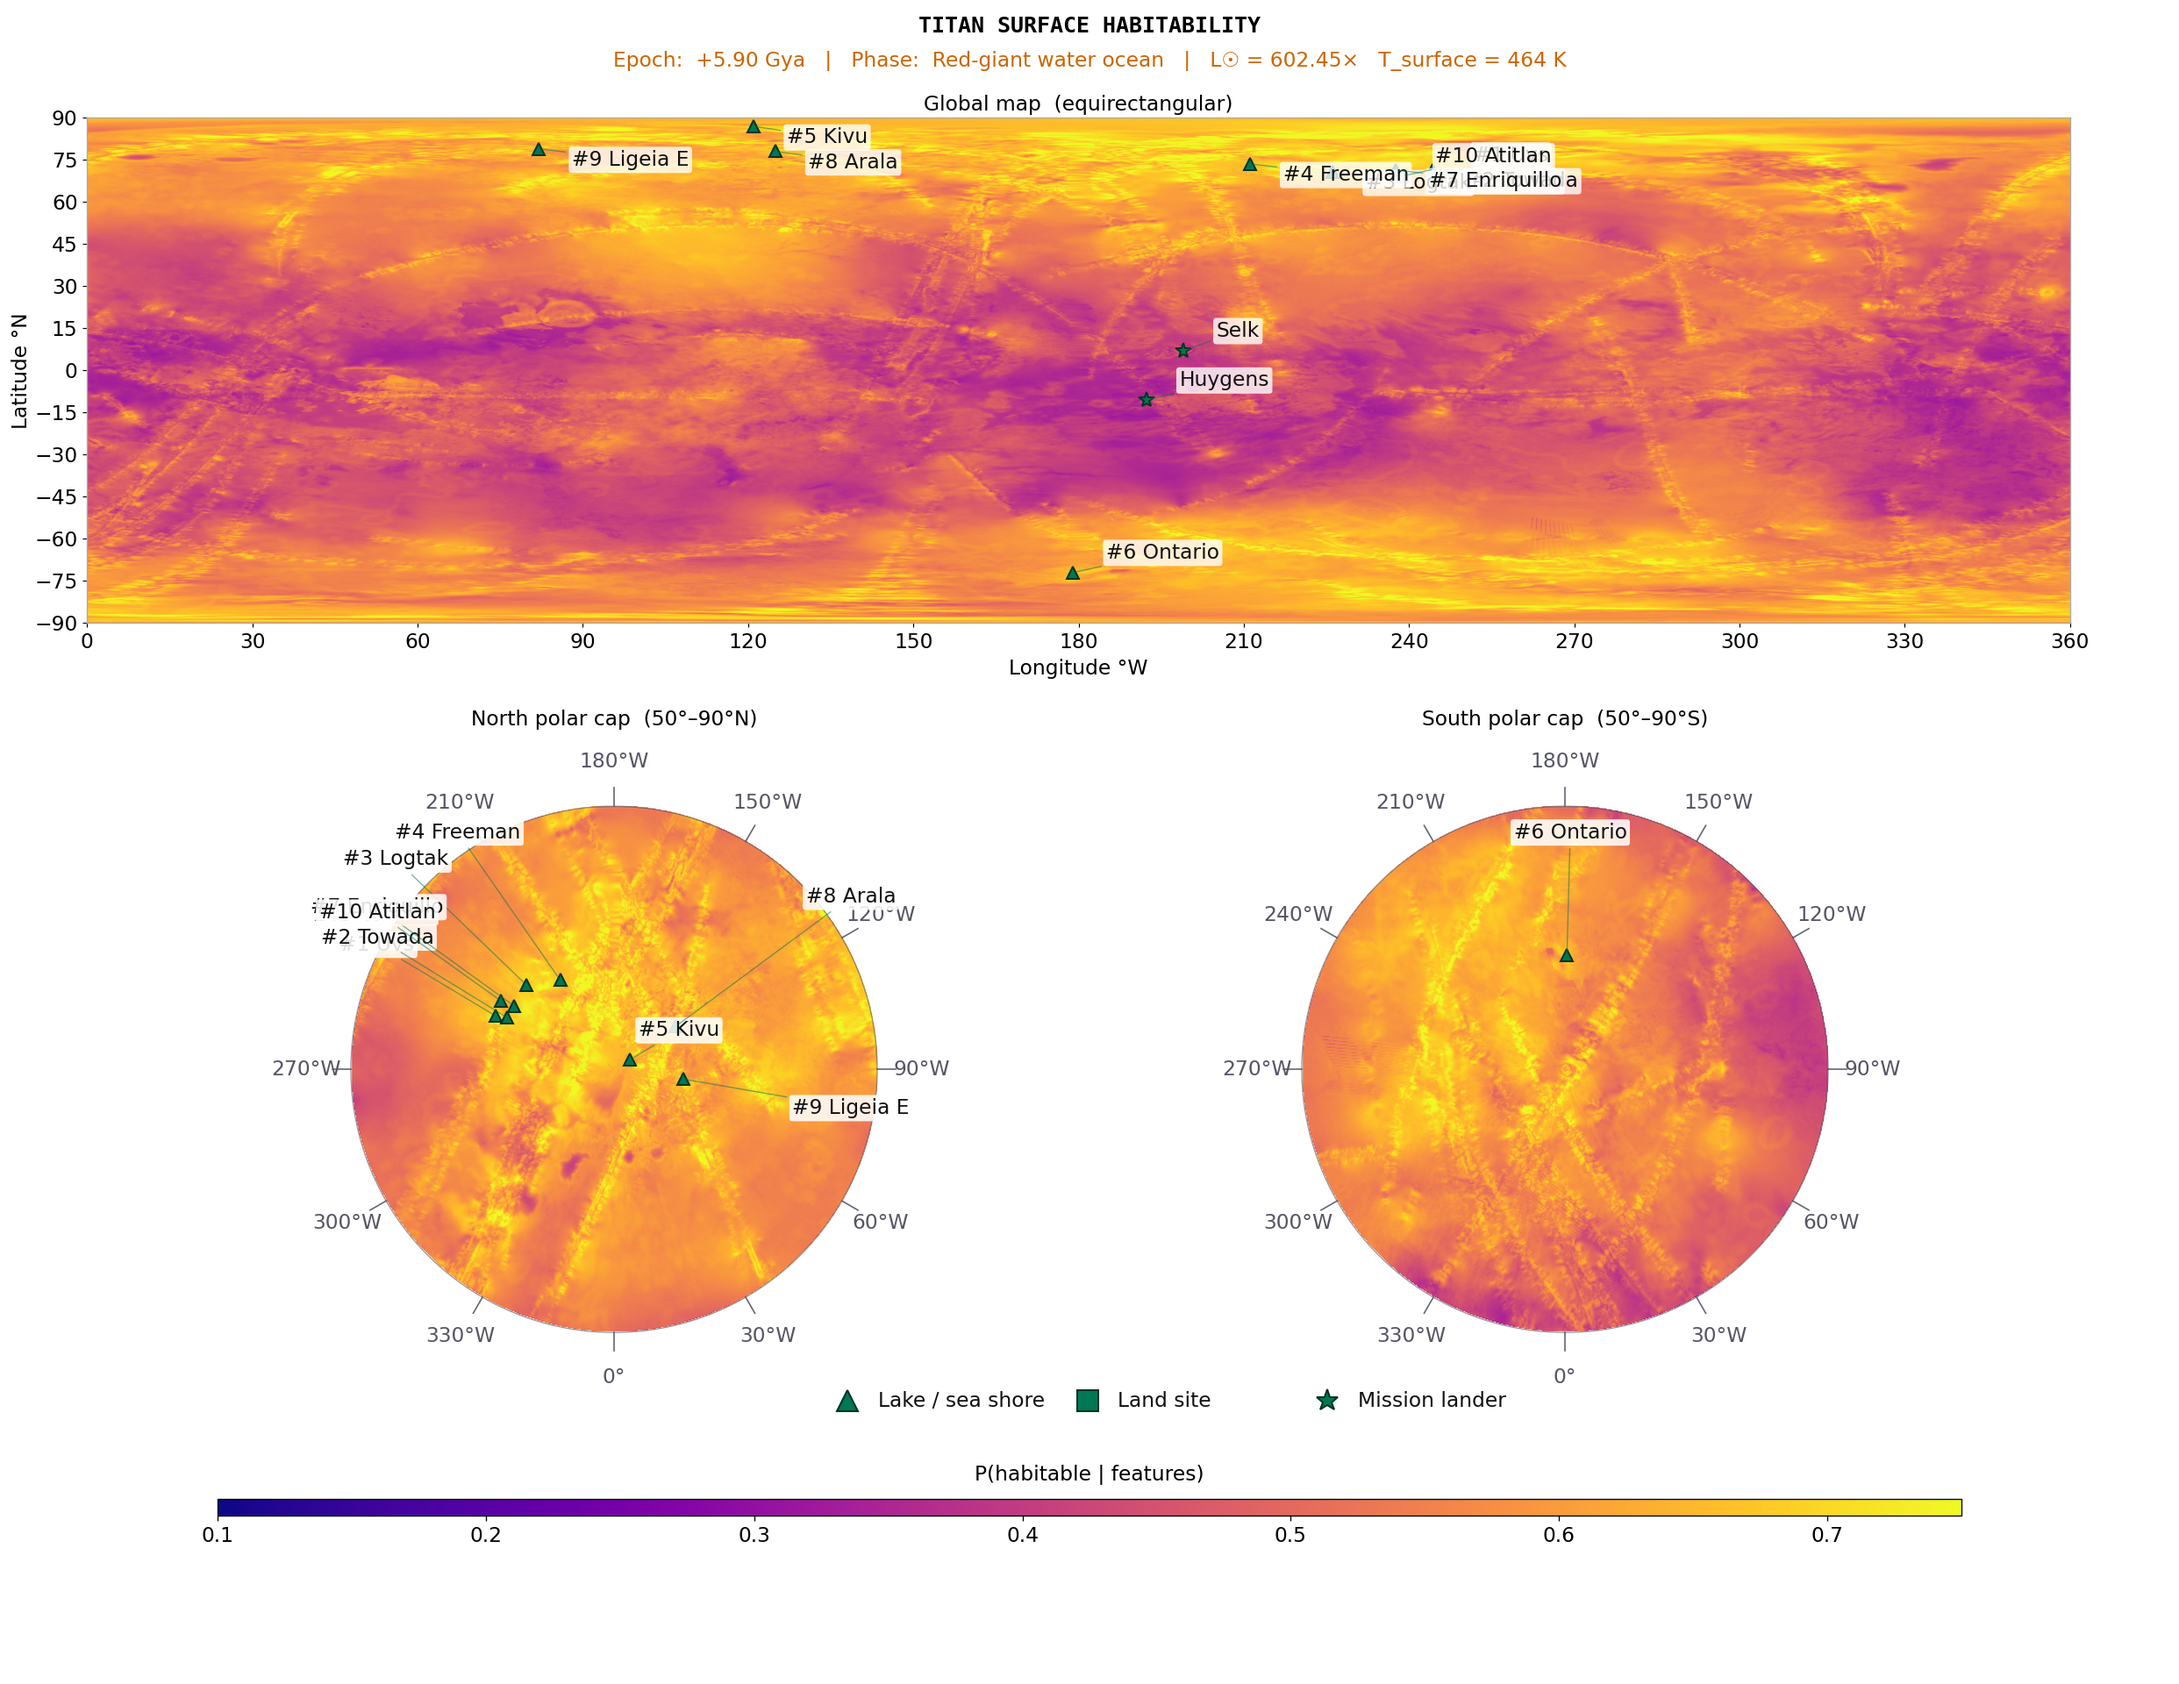
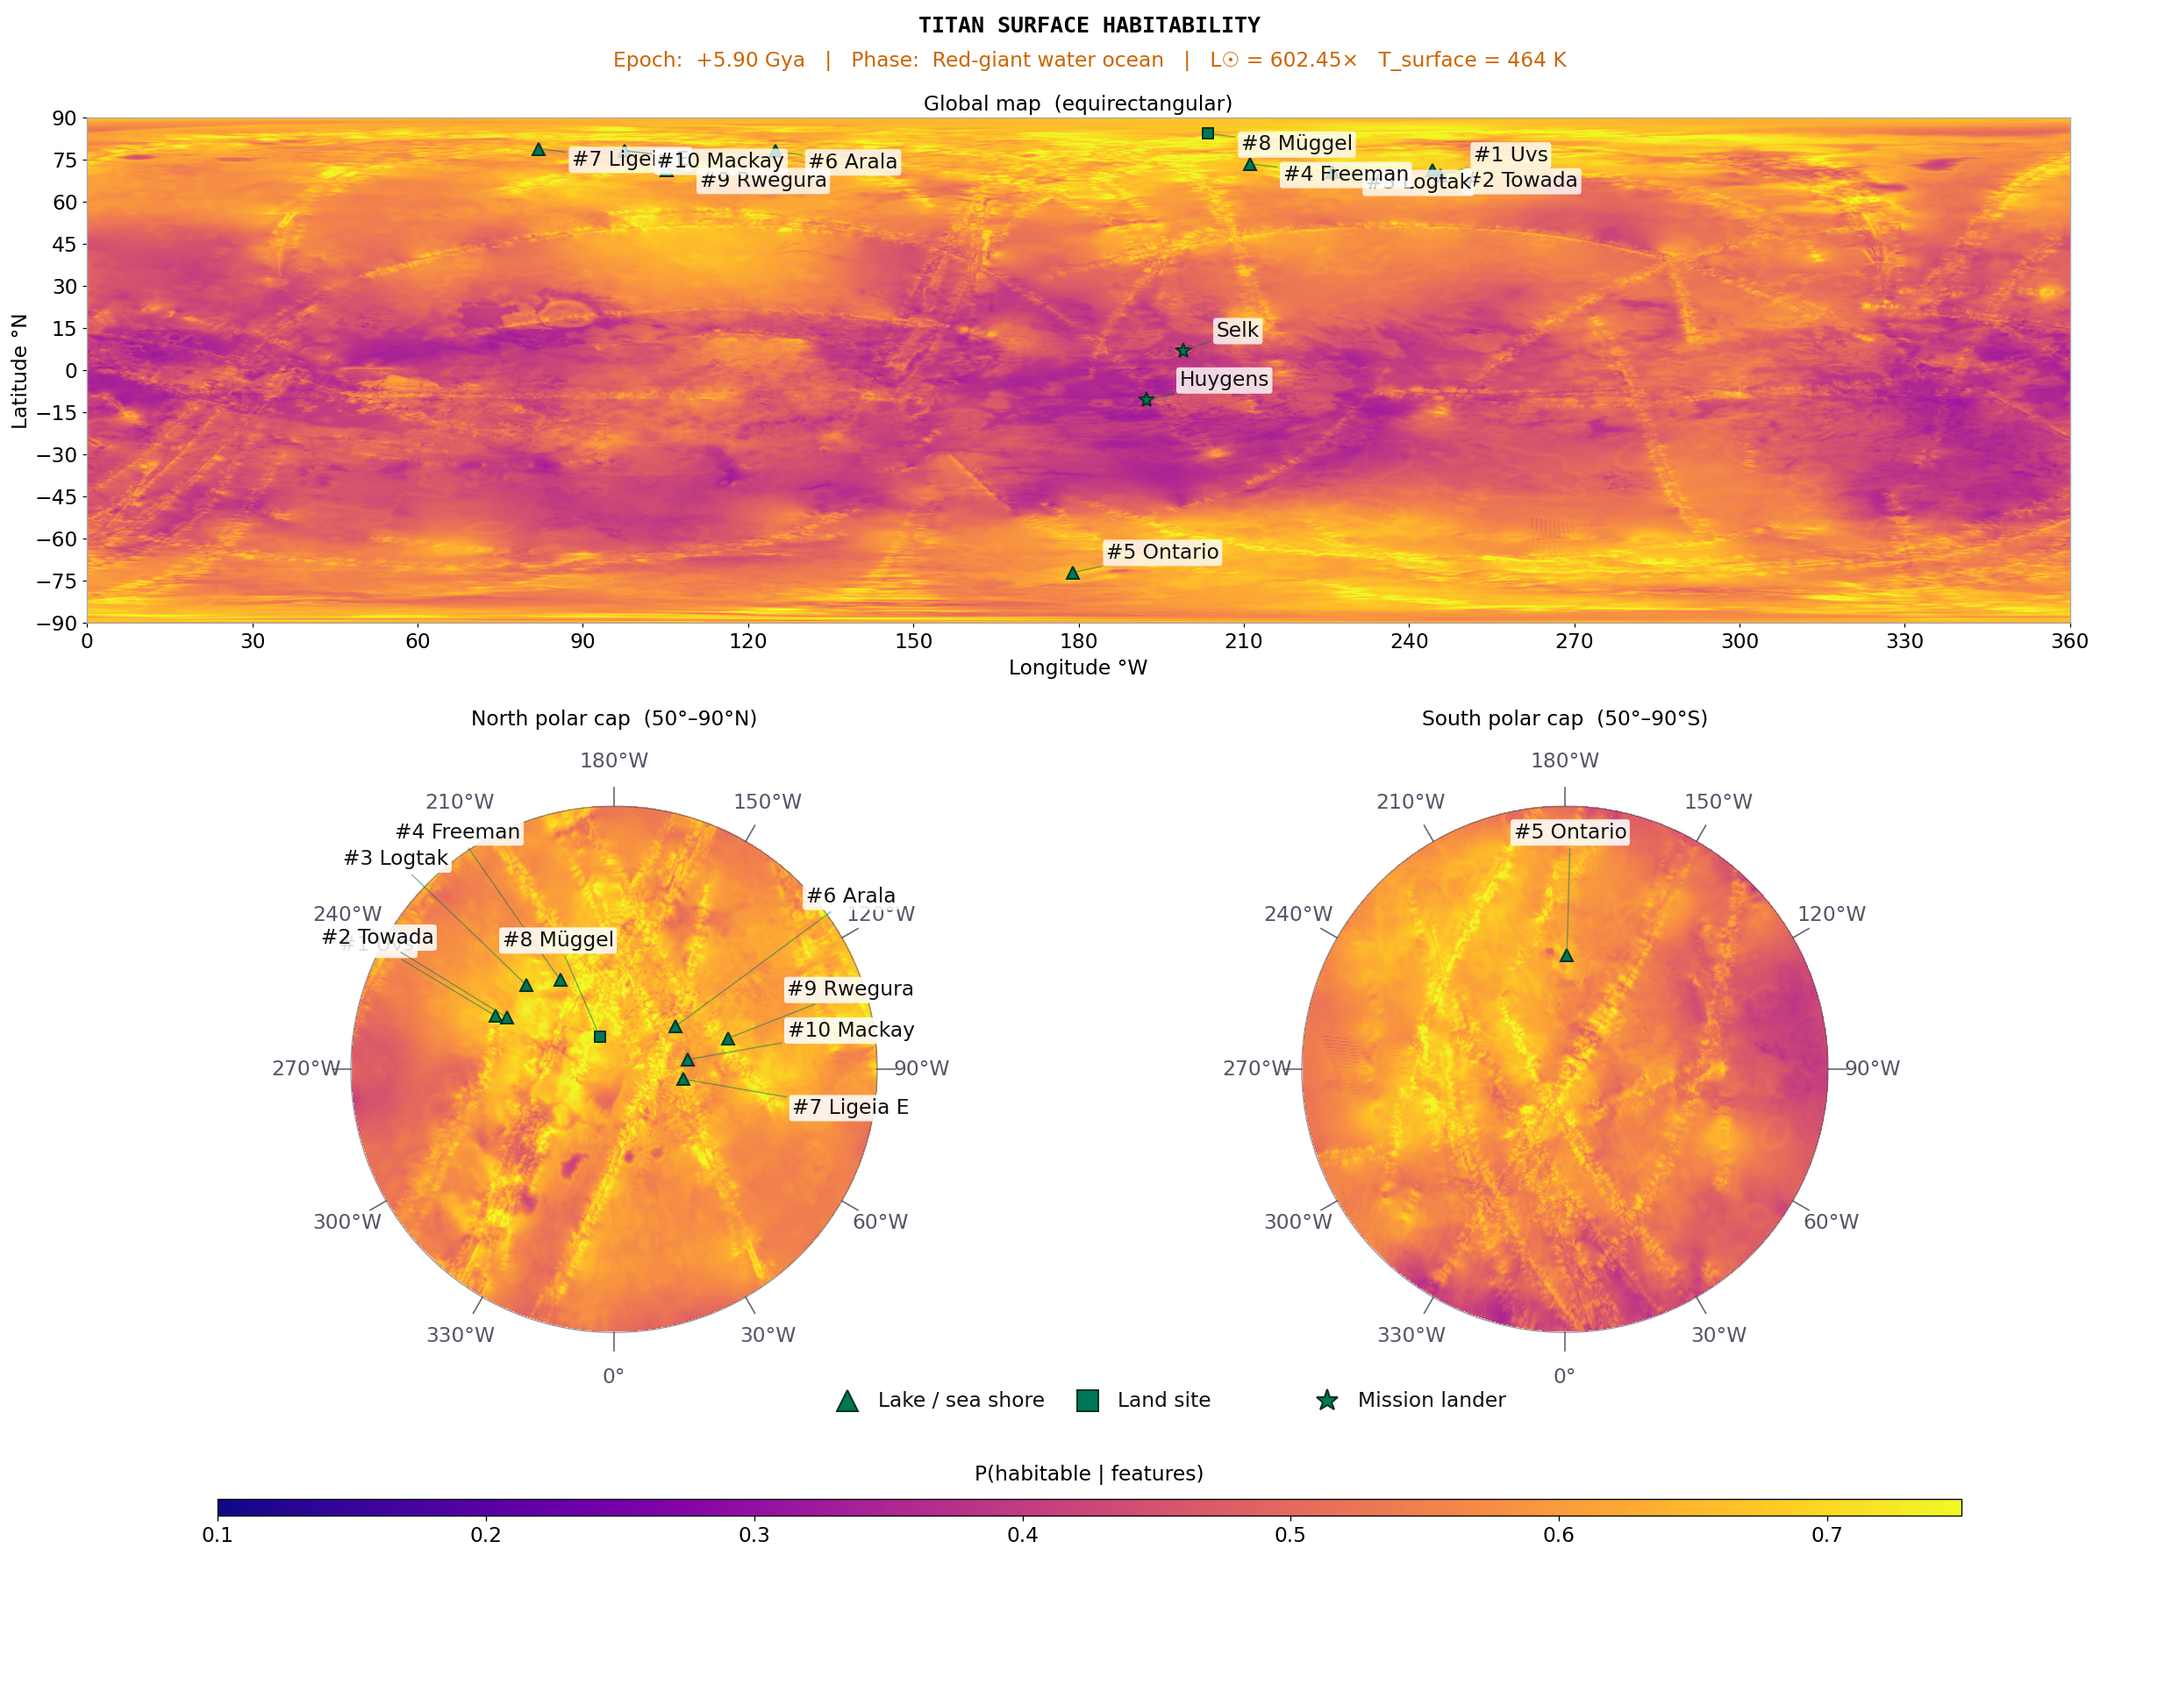
Map labels: rank catalogue RANKING_SITES so epoch maps match the tables; fix kappa deltas
(1) generate_temporal_maps: compute_epoch_top10 now ranks the catalogue's
RANKING_SITES (the same set generate_rankings.py / the thesis tables use) when a
posterior is provided, instead of the broader hand-built CANDIDATE_SITES. The
posterior-sampling convention already matched generate_rankings, so the map's
top-10 now equals RANKINGS.csv at the anchor epochs. Verified: present ->
Towada..Mackay and future -> Uvs..Mackay match RANKINGS exactly. Re-rendered the
animation; synced the 5 thesis_frame epoch maps (future frame now shows
#1 Uvs..#10 Mackay; no more Kivu/Enriquillo/Atitlan, and Uvs#1 now appears).
CANDIDATE_SITES retained for the modelled-mode animation.

(2) discussion sensitivity: corrected the kappa deltas to match the regenerated
figure/formula -- Towada kappa-halve +0.068->+0.071, kappa-double -0.072->-0.076;
Selk -0.034->-0.027, +0.036->+0.029.

diff --git a/thesis/discussion.tex b/thesis/discussion.tex
@@ -47,7 +47,7 @@ The framework relies on several simplifying assumptions, documented in full in A
 
 A natural concern with any Bayesian analysis is whether the conclusions depend sensitively on the prior specification.  Three parameters govern the prior: $\kappa$ (concentration), $\lambda$ (likelihood sharpness), and the feature weights $w_i$.  Figure~\ref{fig:sensitivity} shows the effect of varying each at three representative sites: Towada (rank 1, high organic + liquid), Belet (equatorial organic site, outside top 10), and Selk (below prior mean, high geodiversity).
 
-The key finding is robustness.  Towada retains rank 1 in all $3 \times 3 \times 3 = 27$ parameter combinations.  Halving $\kappa$ from 5 to 2.5 increases Towada's $P(H)$ by $+0.068$ and reduces Selk's by $-0.034$; doubling to 10 reverses these changes ($-0.072$ and $+0.036$).  For sites near the prior mean (Belet, Selk), the maximum shift is $|\Delta P(H)| \leq 0.06$: well below the 95\% CI width of $\approx 0.5$ at any single site.  The qualitative ordering (organic-rich polar lake shores $>$ other lacus $>$ equatorial sites) is preserved in all 27 combinations.  Crucially, reducing $w_1$ from 0.25 to 0.13 (halving the weight of liquid hydrocarbon) reduces Towada's $P(H)$ from 0.573 to $\sim$0.54: Towada remains the highest-scoring site because its VIMS-derived organic abundance, not the liquid-hydrocarbon feature alone, drives the ranking.
+The key finding is robustness.  Towada retains rank 1 in all $3 \times 3 \times 3 = 27$ parameter combinations.  Halving $\kappa$ from 5 to 2.5 increases Towada's $P(H)$ by $+0.071$ and reduces Selk's by $-0.027$; doubling to 10 reverses these changes ($-0.076$ and $+0.029$).  For sites near the prior mean (Belet, Selk), the maximum shift is $|\Delta P(H)| \leq 0.06$: well below the 95\% CI width of $\approx 0.5$ at any single site.  The qualitative ordering (organic-rich polar lake shores $>$ other lacus $>$ equatorial sites) is preserved in all 27 combinations.  Crucially, reducing $w_1$ from 0.25 to 0.13 (halving the weight of liquid hydrocarbon) reduces Towada's $P(H)$ from 0.573 to $\sim$0.54: Towada remains the highest-scoring site because its VIMS-derived organic abundance, not the liquid-hydrocarbon feature alone, drives the ranking.
 
 \begin{figure}[H]
   \centering

diff --git a/generate_temporal_maps.py b/generate_temporal_maps.py
@@ -1375,6 +1375,30 @@ def _site_ph(site: Dict, t: float) -> float:
     return (alpha0 + LAMBDA * w_sum) / (KAPPA + LAMBDA)
 
 
+# ---------------------------------------------------------------------------
+# Catalogue-derived ranking set for full_inference frames.  Ranking these -- the
+# same configs.site_catalogue.RANKING_SITES that generate_rankings.py and the
+# thesis tables rank -- with the identical posterior-sampling convention used
+# below makes the map's top-10 labels and ranks match RANKINGS.csv at the anchor
+# epochs.  CANDIDATE_SITES (with hardcoded feature profiles) is retained only for
+# the modelled-mode animation, which has no per-pixel posterior to sample.
+# ---------------------------------------------------------------------------
+from configs.site_catalogue import (RANKING_SITES as _RANKING_SITE_NAMES,
+                                     SITE_DICT as _SITE_DICT_MAP)
+
+def _disp_label(full_name: str) -> str:
+    for _suf in (" Lacus", " Mare", " shore", " crater", " dunes", " site"):
+        if full_name.endswith(_suf):
+            return full_name[: -len(_suf)]
+    return full_name
+
+RANKING_SITES_MAP: List[Dict] = [
+    {"lon_W": _SITE_DICT_MAP[_n].lon_W, "lat": _SITE_DICT_MAP[_n].lat,
+     "label": _disp_label(_SITE_DICT_MAP[_n].full_name)}
+    for _n in _RANKING_SITE_NAMES
+]
+
+
 def compute_epoch_top10(
     t: float,
     posterior: np.ndarray = None,
@@ -1413,7 +1437,7 @@ def compute_epoch_top10(
             c0, c1 = max(0, col - 1), min(ncols, col + 2)
             patch = posterior[r0:r1, c0:c1]
             return float(np.nanmean(patch))
-        scored = [(s, _sample_ph(s)) for s in CANDIDATE_SITES]
+        scored = [(s, _sample_ph(s)) for s in RANKING_SITES_MAP]
     else:
         scored = [(s, _site_ph(s, t)) for s in CANDIDATE_SITES]
     scored.sort(key=lambda x: x[1], reverse=True)
